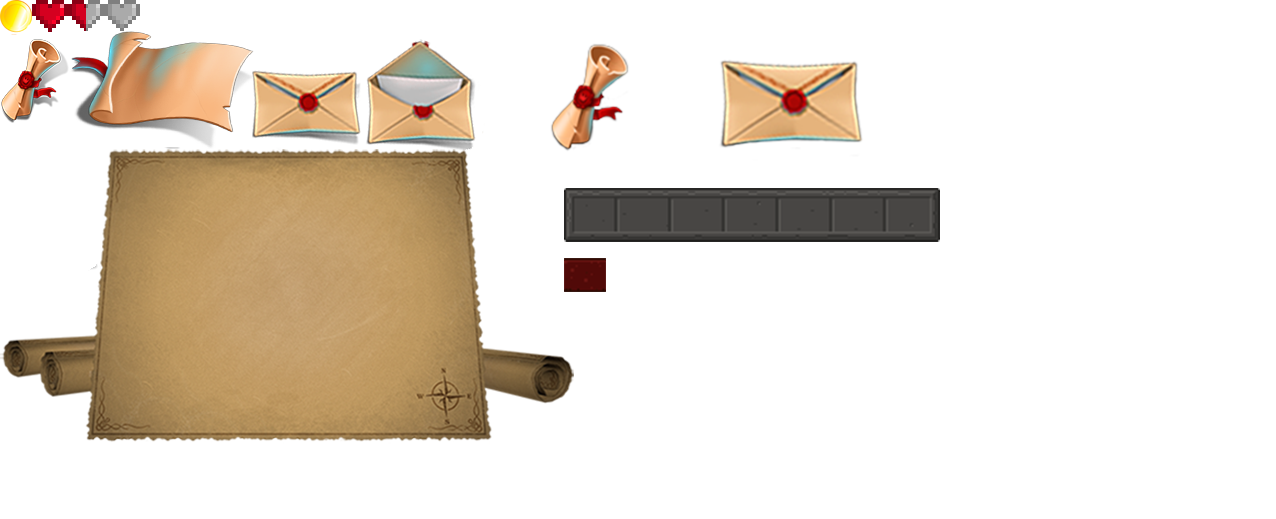
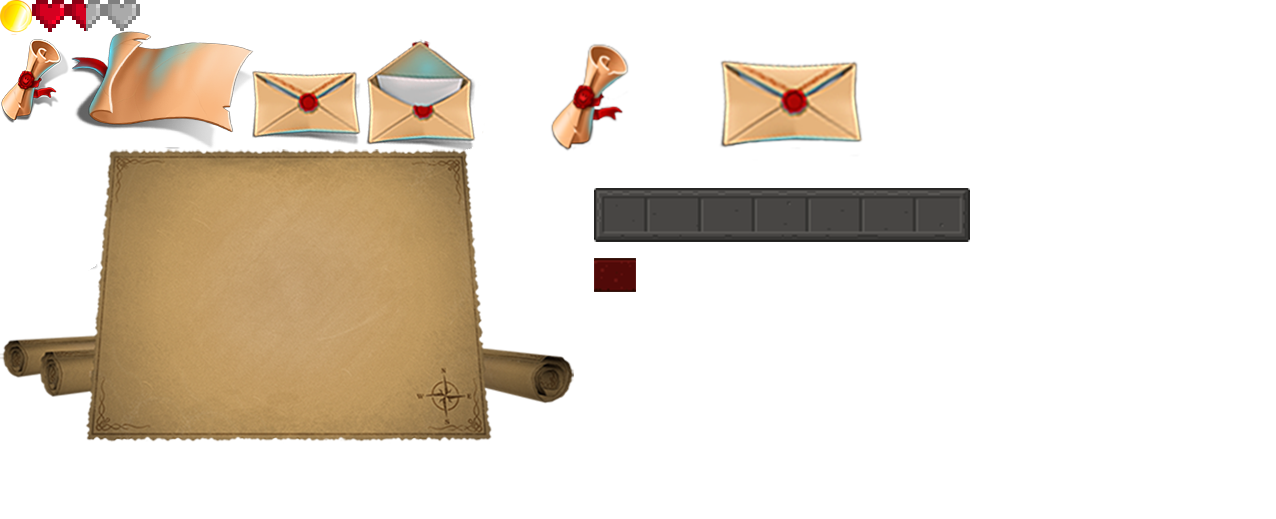
corrected gui in atlas overlap

Changed region(s): [[0.4279, 0.4933, 0.5196, 0.5857], [0.4279, 0.3391, 0.489, 0.4624], [0.7335, 0.3391, 0.7641, 0.4933]]

diff --git a/NinJump/Motor2D/j1Gui.cpp b/NinJump/Motor2D/j1Gui.cpp
@@ -223,8 +223,8 @@ void j1Gui::Generate_Menu_GUI() {
 		// images
 		settings_image = Create_Image(settings_image_tex, iPoint(0, 0), SDL_Rect{ 0, 0, 1050, 817 }, NULL, Menu_Level::Settings_Menu);
 
-		settings_mus_bar = Create_Image(atlas, iPoint(20, 200), SDL_Rect{ 564, 188, 376, 54 }, NULL, Menu_Level::Settings_Menu);
-		settings_mus_slider = Create_Slider(atlas, iPoint(27, 208), SDL_Rect{ 563, 256, 45, 38 }, settings_mus_bar, "mus_slider");
+		settings_mus_bar = Create_Image(atlas, iPoint(20, 200), SDL_Rect{ 594, 188, 376, 54 }, NULL, Menu_Level::Settings_Menu);
+		settings_mus_slider = Create_Slider(atlas, iPoint(27, 208), SDL_Rect{ 593, 256, 45, 38 }, settings_mus_bar, "mus_slider");
 
 
 		
@@ -577,20 +577,6 @@ void j1Gui::Select_Clicked_Object() {
 
 				case Hover_State::CLICK:
 
-				/*	if (!reset_child_search) {
-
-						for (item_c = objects.start; item_c != NULL; item_c = item_c->next)
-						{
-
-							if (item_c->data->parent == clicked_object) {
-								LOG("_________________________________________________________________ - child of clicked obj detected");
-								childs.add(item_c->data);
-								child_count++;
-							}
-
-						}
-						reset_child_search = true;
-					}*/
 
 					clicked_in_this_frame = true; 
 
@@ -600,10 +586,8 @@ void j1Gui::Select_Clicked_Object() {
 
 					else if (App->input->GetMouseButtonDown(SDL_BUTTON_LEFT) == KEY_REPEAT) {
 						item->data->hover_state = Hover_State::DRAG;
-						/*if (move_object && clicked_object != nullptr &&  && child_count > 0) {*/
-						 //, childs);
-						/*}*/
 					}
+
 					break;
 
 				case Hover_State::DRAG:
@@ -620,12 +604,10 @@ void j1Gui::Select_Clicked_Object() {
 					}
 					
 
-				// 	if (clicked_object->menu_level != Menu_Level::Level /*&& clicked_object->draggable*/) {
-
-					if(clicked_object != nullptr && clicked_object->draggable) //&& clicked_object->type != GUI_TYPE::Slider)
+					if(clicked_object != nullptr && clicked_object->draggable) 
 					Move_Clicked_Object(clicked_object);
 
-					//}
+				
 
 					break; 
 					
@@ -638,6 +620,7 @@ void j1Gui::Select_Clicked_Object() {
 		}
 		 
 	
+		// move slider if slider bar was clicked
 
 		if (clicked_object != nullptr){ 
 
@@ -645,7 +628,7 @@ void j1Gui::Select_Clicked_Object() {
 
 			for (item = objects.start; item != NULL; item = item->next) {
 
-				if (item->data->parent == clicked_object && item->data->type == GUI_TYPE::Slider) { // move slider if slider bar was clicked
+				if (item->data->parent == clicked_object && item->data->type == GUI_TYPE::Slider) { 
 
 					if(clicked_in_this_frame)
 					Move_Slider(item->data, iPoint(x,y));
@@ -658,34 +641,10 @@ void j1Gui::Select_Clicked_Object() {
 
 		clicked_in_this_frame = false; 
 
-		/*if (clicked_object != nullptr && clicked_object->draggable && clicked_object->type == GUI_TYPE::Slider)
-			Move_Clicked_Object(clicked_object);*/
+
+		// move children
 
 
-		// if(clicked_object != nullptr)
-	//	LOG("Clicked object is actually ---------------------------------------> %s", clicked_object->ID);
-
-		
-	/*p2List_item<j1Gui_Object*>* item_s;
-	j1Gui_Object* resolve_selected; 
-
-	int index = 666;
-
-	for (item_s = selected_objects.start; item_s != NULL; item_s = item_s->next)
-	{
-		
-
-		if (item_s->data->hierarchy < item_s->prev->data->hierarchy) {
-			
-			resolve_selected = item->data; 
-
-		}
-
-	
-
-	}*/
-
-	// resolve_selected = selected_objects.At(index)->data;
 
 
 }
@@ -697,7 +656,7 @@ j1Gui_Object* j1Gui::Get_Clicked_Object() {
 }
 
 
-void j1Gui::Move_Clicked_Object(j1Gui_Object* obj) { //, p2List<j1Gui_Object*> childs) {
+void j1Gui::Move_Clicked_Object(j1Gui_Object* obj) { 
 
 
 	LOG(" *******************************   moving obj   *******************************"); 

diff --git a/NinJump/Motor2D/j1Gui.h b/NinJump/Motor2D/j1Gui.h
@@ -112,7 +112,6 @@ public:
 	void Do_Logic_Clicked(j1Gui_Object*);
 
 
-	// TODO 2: Create the factory methods
 	// Gui creation functions
 
 	j1Gui_Image* Create_Image(SDL_Texture*, iPoint pos, SDL_Rect&, char* ID = nullptr, Menu_Level menu_level = Menu_Level::Level, j1Gui_Object* parent = nullptr, bool draggable = false);
@@ -126,8 +125,8 @@ public:
 
 	void Select_Clicked_Object(); 
 	j1Gui_Object* Get_Clicked_Object(); 
-//	void Get_Clicked_Object_Children(); 
-	void Move_Clicked_Object(j1Gui_Object*); // , p2List<j1Gui_Object*> childs);
+	p2List<j1Gui_Object*> Get_Clicked_Object_Children(j1Gui_Object*);
+	void Move_Clicked_Object(j1Gui_Object*); 
 	void Move_Slider(j1Gui_Object*, iPoint dest_pos);
 	
 
@@ -228,8 +227,8 @@ private:
 	uint frame_count = 0; 
 	uint cleaned_times = 0; 
 	bool clicked_in_this_frame = false; 
+
 public: 
-	// bool create_menu_GUI = true; 
 	create_menu_GUI create_menu_GUI; 
 	bool create_level_GUI = false;
 	uint creation_level_times = 0; 
